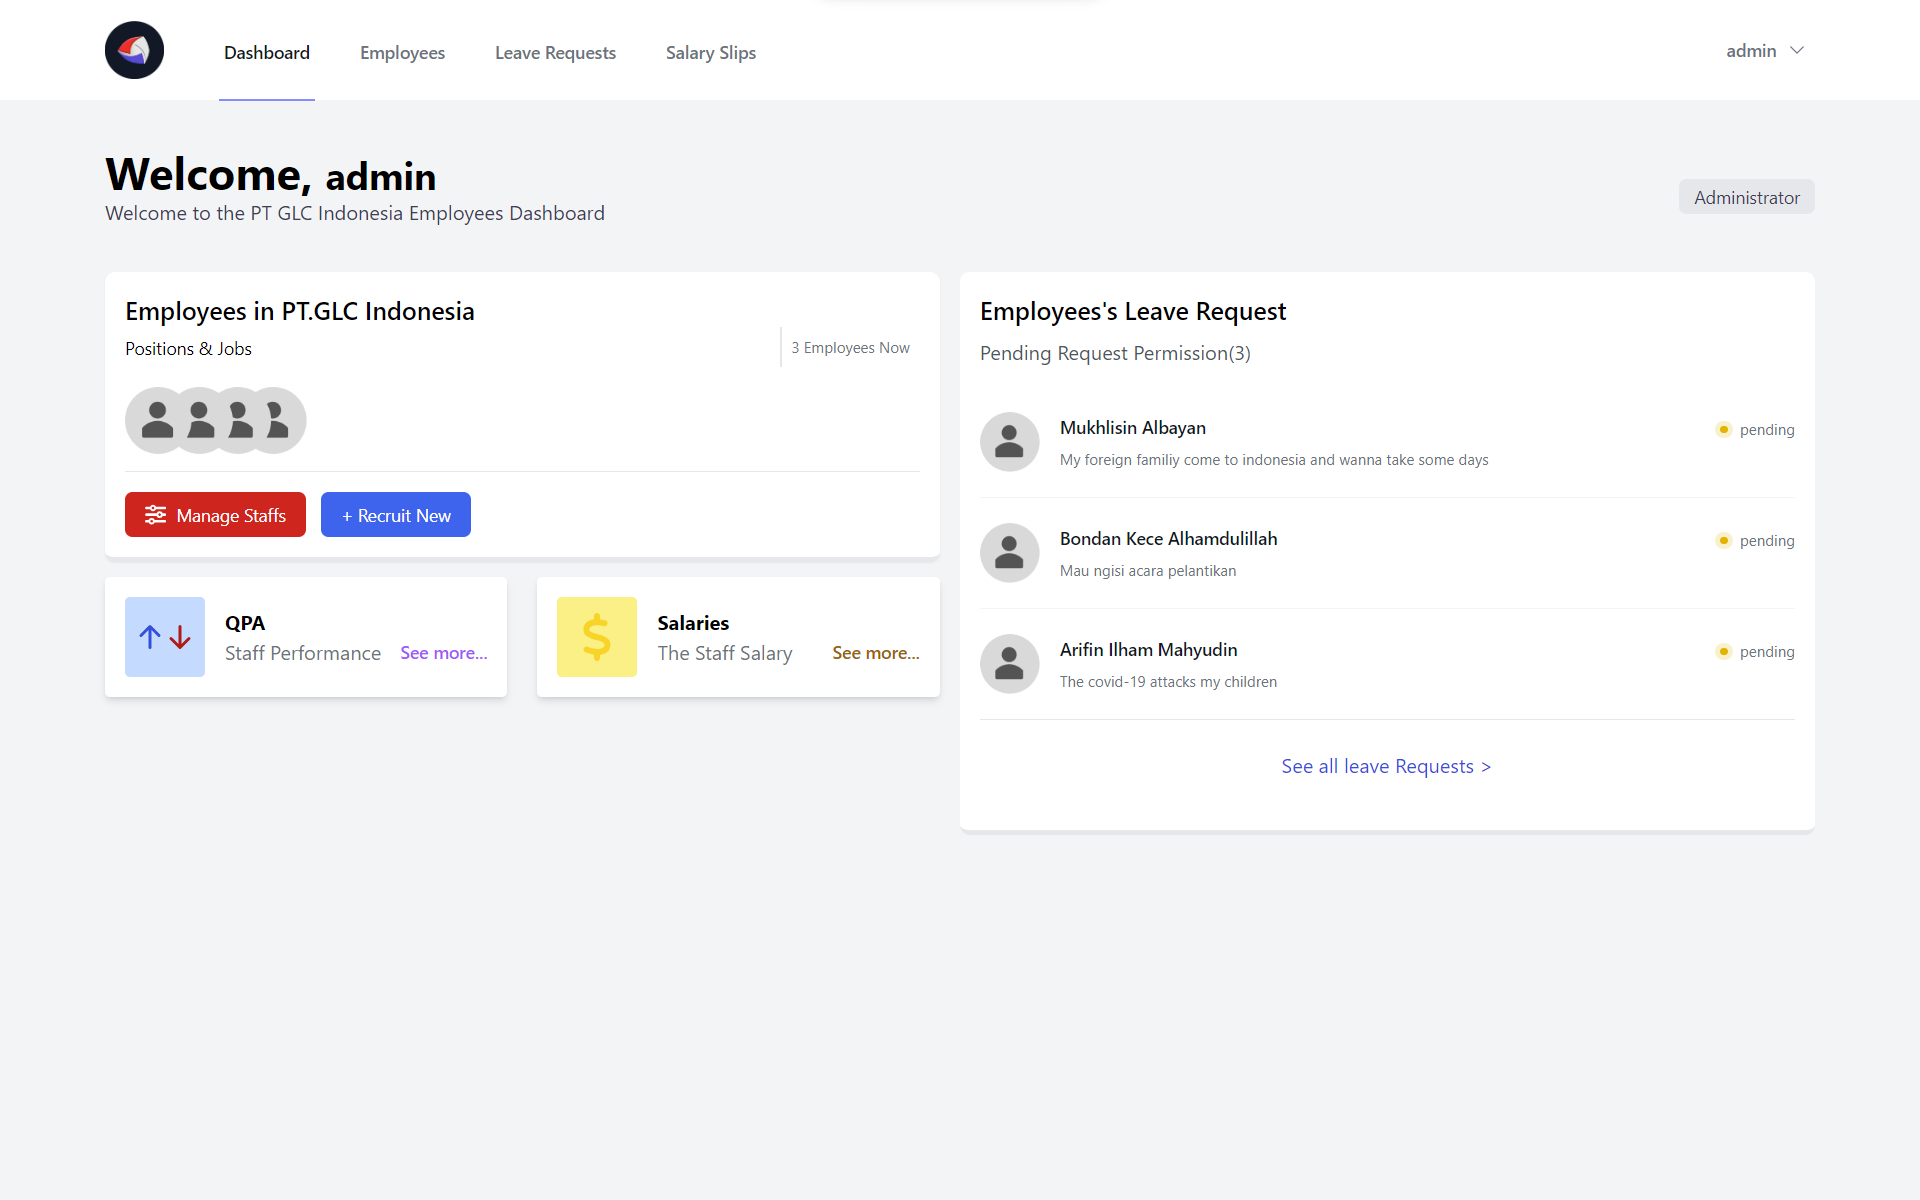
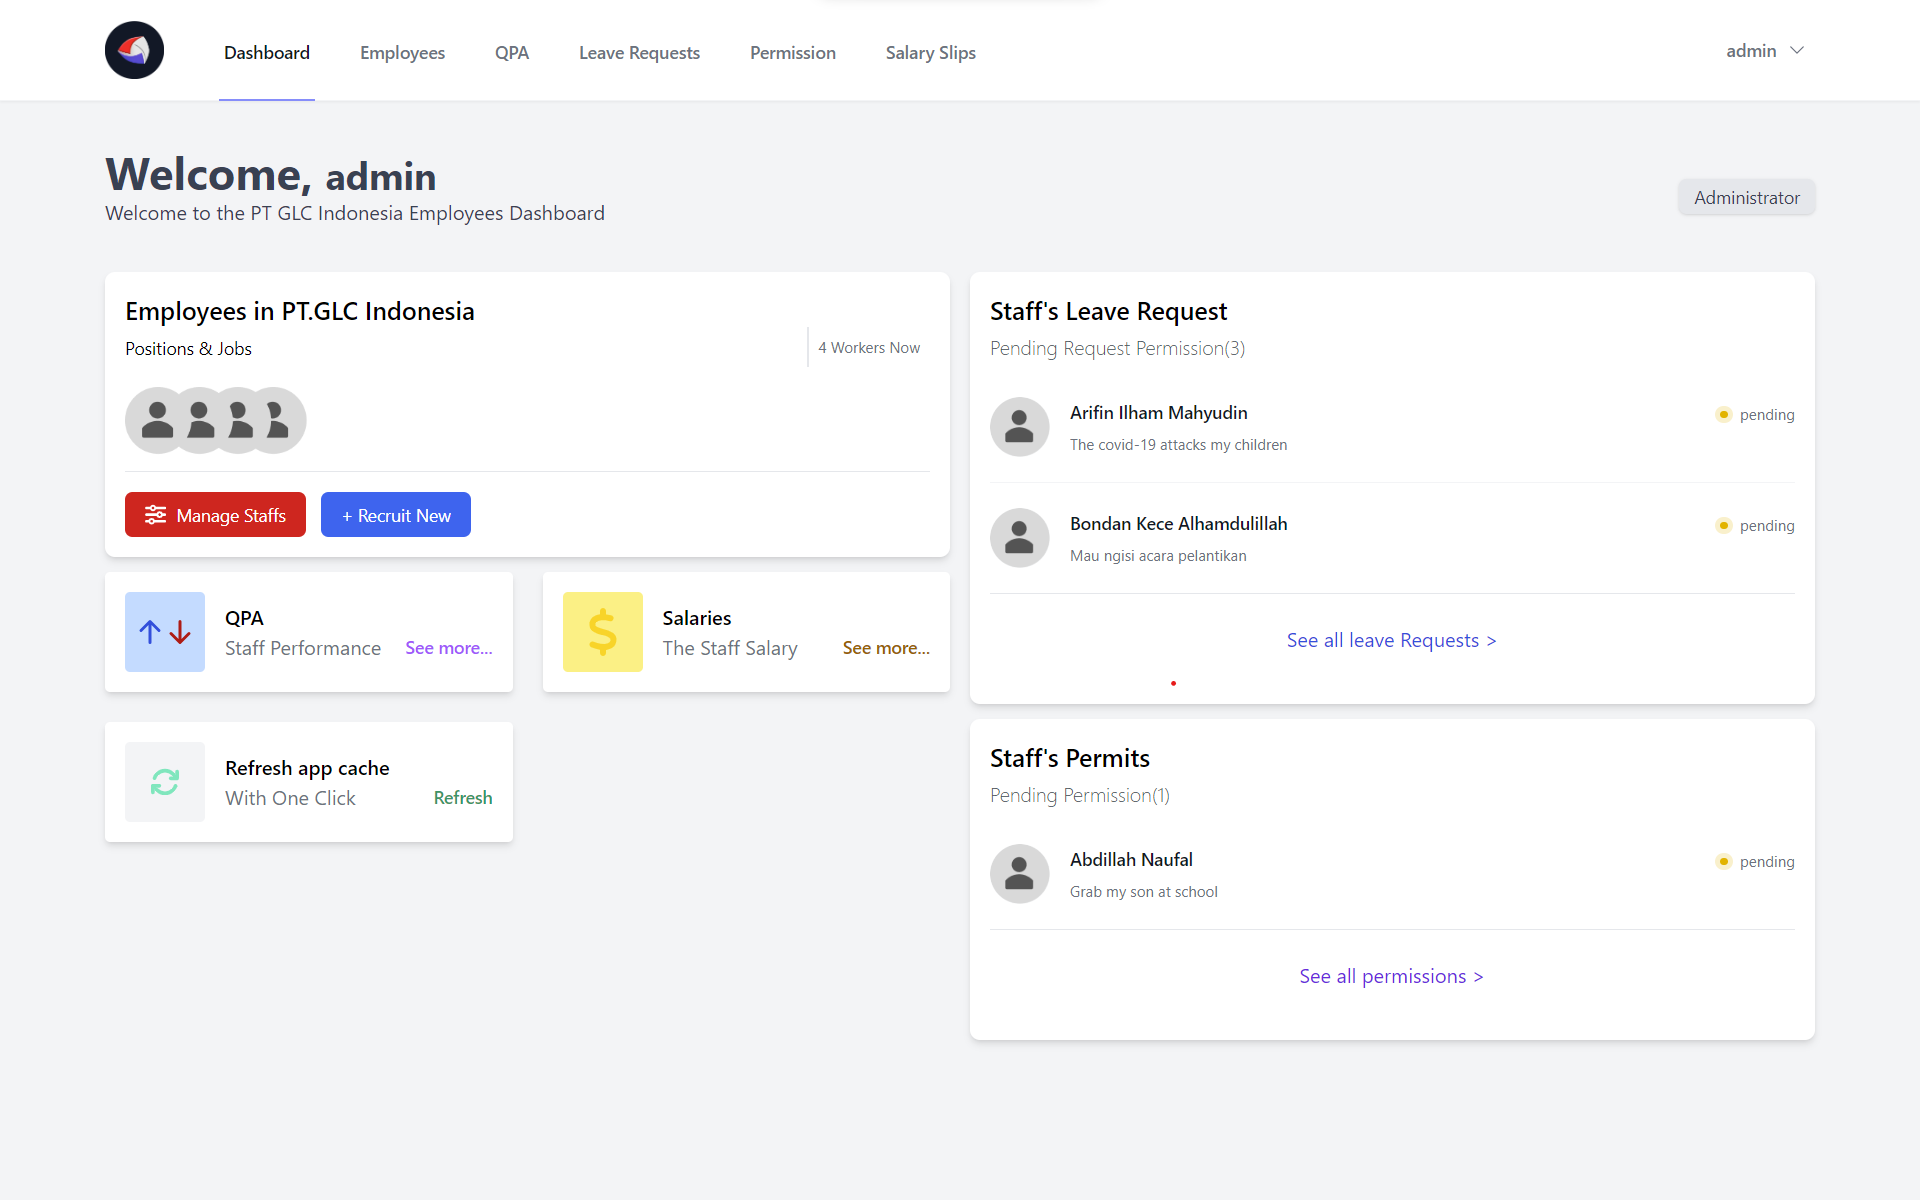
finish dashboard qpa

diff --git a/resources/views/pages/qpa/index.blade.php b/resources/views/pages/qpa/index.blade.php
@@ -1,15 +1,15 @@
 <x-app-layout>
-    <div class="w-5/6 sm:w-4/5 mx-auto mt-4 pb-3">
+    <div class="w-5/6 sm:w-4/5 mx-auto mt-4 pb-6">
         <h2 class="text-gray-700 text-2xl sm:text-3xl font-bold">Quality Practice Accreditation</h2>
         <p>Staffs predicate</p>
         <div class="mt-6">
             <section class="grid gap-6 my-6 md:grid-cols-3">
-                <div class="p-3 sm:p-6 bg-white shadow-lg rounded sm:rounded-2xl">
+                <div class="p-3 sm:p-6 bg-white transition ease-in duration-200 shadow hover:shadow-xl rounded sm:rounded-2xl">
                     <dl class="sm:space-y-2">
                         <dt class="text-xs sm:text-sm font-medium text-gray-500">Great Predicate</dt>
-                        <dd class="text-xl md:text-3xl">Total</dd>
+                        <dd class="text-xl md:text-3xl">{{ number_format($percentage_great) }}%</dd>
                         <dd class="flex items-center space-x-1 text-xs sm:text-sm font-medium text-blue-500">
-                            <span>10 Staffs with 90+</span>
+                            <span>{{ $great_grades }} Staffs with 90+</span>
                             <svg class="w-5 sm:w-7 h-5 sm:h-7" xmlns="http://www.w3.org/2000/svg" fill="none" viewBox="0 0 24 24">
                                 <path stroke="currentColor" stroke-linecap="round" stroke-linejoin="round" stroke-width="1.5" d="M17.25 15.25V6.75H8.75"></path>
                                 <path stroke="currentColor" stroke-linecap="round" stroke-linejoin="round" stroke-width="1.5" d="M17 7L6.75 17.25"></path>
@@ -18,12 +18,12 @@
                     </dl>
                 </div>
 
-                <div class="p-3 sm:p-6 bg-white shadow-lg rounded sm:rounded-2xl">
+                <div class="p-3 sm:p-6 bg-white transition ease-in duration-200 shadow hover:shadow-xl rounded sm:rounded-2xl">
                     <dl class="sm:space-y-2">
                         <dt class="text-sm font-medium text-gray-500">Bad Predicate</dt>
-                        <dd class="text-xl md:text-3xl">Total</dd>
+                        <dd class="text-xl md:text-3xl">{{ number_format($percentage_bad) }}%</dd>
                         <dd class="flex items-center space-x-1 text-xs sm:text-sm font-medium text-red-500">
-                            <span>0 Staffs with 60-</span>
+                            <span>{{ $bad_grades }} Staffs with 69-</span>
                             <svg class="w-4 sm:w-7 h-4 sm:h-7" xmlns="http://www.w3.org/2000/svg" fill="none" viewBox="0 0 24 24">
                                 <path stroke="currentColor" stroke-linecap="round" stroke-linejoin="round" stroke-width="1.5" d="M17.25 8.75V17.25H8.75"></path>
                                 <path stroke="currentColor" stroke-linecap="round" stroke-linejoin="round" stroke-width="1.5" d="M17 17L6.75 6.75"></path>
@@ -32,12 +32,12 @@
                     </dl>
                 </div>
 
-                <div class="p-3 sm:p-6 bg-white shadow-lg rounded sm:rounded-2xl">
+                <div class="p-3 sm:p-6 bg-white transition ease-in duration-200 shadow hover:shadow-xl rounded sm:rounded-2xl">
                     <dl class="sm:space-y-2">
-                        <dt class="text-sm font-medium text-gray-500">Average predicate</dt>
-                        <dd class="text-xl md:text-3xl">Total</dd>
+                        <dt class="text-sm font-medium text-gray-500">Average points</dt>
+                        <dd class="text-xl md:text-3xl">{{ $average }}</dd>
                         <dd class="flex items-center space-x-1 text-xs sm:text-sm font-medium text-yellow-500">
-                            <span>Total Employees</span>
+                            <span>{{ $total_staff }} Employees</span>
                             <svg
                                 class="w-3 sm:w-5 h-4 sm:h-6 fill-current text-yellow-400"
                                 xmlns="http://www.w3.org/2000/svg"
@@ -70,20 +70,29 @@
             <div class="my-3">
                 <h4 class="text-gray-700 text-base sm:text-lg">The staffs records</h4>
                 <ul role="list">
+                    @foreach ($staffs as $item)
                     <li class="flex justify-between gap-x-6 py-3">
                         <div class="flex min-w-0 gap-x-4">
                         <img class="h-12 w-12 flex-none rounded-full bg-gray-50" src="{{ url('img/icon_avatar.png') }}" alt="">
                         <div class="min-w-0 flex-auto">
-                            <p class="text-sm font-semibold text-gray-900">Employee name</p>
-                            <p class="mt-1 text-xs sm:text-sm text-blue-500">100</p>
-                            <p class="text-xs sm:text-sm text-gray-500">Great</p>
+                            <p class="text-sm font-semibold text-gray-900">{{ $item->name }}</p>
+                            @if ($item->qpa >=90)
+                            <p class="mt-1 text-xs sm:text-sm text-blue-500">{{ $item->qpa }}</p>
+                            @elseif ($item->qpa >=80)
+                            <p class="mt-1 text-xs sm:text-sm text-green-500">{{ $item->qpa }}</p>
+                            @elseif ($item->qpa >=70)
+                            <p class="mt-1 text-xs sm:text-sm text-yellow-500">{{ $item->qpa }}</p>
+                            @elseif ($item->qpa <= 69)
+                            <p class="mt-1 text-xs sm:text-sm text-red-500">{{ $item->qpa }}</p>
+                            @endif
                         </div>
                         </div>
                         <div class="hidden shrink-0 sm:flex sm:flex-col sm:items-end">
-                        <p class="text-sm text-gray-900">Position</p>
+                        <p class="text-sm text-gray-900">{{ $item->position }}</p>
                         </div>
                     </li>
                     <hr>
+                    @endforeach
                 </ul>
             </div>
 
@@ -106,7 +115,7 @@
                         <p class="text-sm sm:text-base">Predicate: <span class="text-yellow-500">Need Enhancement</span></p>
                     </div>
                     <div class="py-8 px-5 w-full sm:w-1/4">
-                        <h1 class="text-lg sm:text-2xl font-light">78-</h1>
+                        <h1 class="text-lg sm:text-2xl font-light">69-</h1>
                         <p class="text-sm sm:text-base">Predicate: <span class="text-red-500">Bad</span></p>
                     </div>
                 </div>

diff --git a/resources/views/pages/salary-slips/show.blade.php b/resources/views/pages/salary-slips/show.blade.php
@@ -17,12 +17,12 @@
                 src="{{ url('img/icon_avatar.png') }}" alt="Bonnie image" />
             <h5 class="sm:mb-1 text-base sm:text-xl font-normal text-gray-900">{{ $slip->employee->name }}</h5>
             <span class="text-xs sm:text-sm text-gray-500 dark:text-gray-500">{{ $slip->employee->position }}</span>
-            <div class="flex mt-4 md:mt-6 gap-3">
+            <div class="flex flex-col sm:flex-row mt-4 md:mt-6 gap-3">
                 <a href="{{ route('employees.index') }}"
-                    class="inline-flex items-center px-4 py-2 text-xs text-center text-gray-900 bg-white border border-gray-300 rounded hover:bg-gray-100 focus:ring-4 focus:outline-none focus:ring-gray-200 dark:bg-gray-800 dark:text-white dark:border-gray-600 dark:hover:bg-gray-700 dark:hover:border-gray-700 dark:focus:ring-gray-700 shadow">Manage
+                    class="px-4 py-2 text-xs text-center text-gray-900 border border-gray-300 rounded focus:ring-4 focus:outline-none focus:ring-gray-200 dark:bg-gray-800 dark:text-white dark:border-gray-600 dark:hover:bg-gray-700 dark:hover:border-gray-700 dark:focus:ring-gray-700 shadow">Manage
                     Staff</a>
                 @if($currentMonth === $slip->month)
-                <a class="px-2 sm:px-3 py-2 sm:py-2.5 bg-blue-500 rounded text-xs text-white shadow"
+                <a class="px-2 sm:px-3 py-2 sm:py-2.5 bg-blue-500 rounded text-center text-xs text-white shadow"
                     href="{{route('salary-slips.print_pdf', $slip->id)}}" target="_blank">Print Salary Slip</a>
                 @endif
             </div>

diff --git a/resources/views/navigation-menu.blade.php b/resources/views/navigation-menu.blade.php
@@ -29,7 +29,7 @@
                         {{ __('Permission') }}
                     </x-nav-link>
                     <x-nav-link href="{{ route('salary-slips.index') }}" :active="request()->routeIs('salary-slips.index')">
-                        {{ __('Salary Slips') }}
+                        {{ __('Salary') }}
                     </x-nav-link>
                 </div>
                 @endif
@@ -175,7 +175,7 @@
                 {{ __('Permission') }}
             </x-responsive-nav-link>
             <x-responsive-nav-link href="{{ route('salary-slips.index') }}" :active="request()->routeIs('salary-slips.index')" class="text-xs">
-                {{ __('Salary Slips') }}
+                {{ __('Salary') }}
             </x-responsive-nav-link>
         </div>
         @endif

diff --git a/app/Http/Controllers/DashboardController.php b/app/Http/Controllers/DashboardController.php
@@ -26,6 +26,19 @@ class DashboardController extends Controller
     }
 
     public function qpa() {
-        return view('pages.qpa.index');
+        $staffs = Employee::all();
+        $total_staff = $staffs->count();
+
+        // devide grade
+        $great_grades = Employee::where('qpa', '>=', 90)->count();
+        $bad_grades = Employee::where('qpa', '<', 70)->count();
+        $average = (($staffs->sum('qpa')) / $total_staff);
+
+        // percentage
+        $percentage_great = ($great_grades / $total_staff) * 100;
+        $percentage_bad = ($bad_grades / $total_staff) * 100;
+
+        
+        return view('pages.qpa.index', compact('staffs', 'total_staff', 'great_grades', 'bad_grades', 'percentage_great', 'percentage_bad', 'average'));
     }
 }
